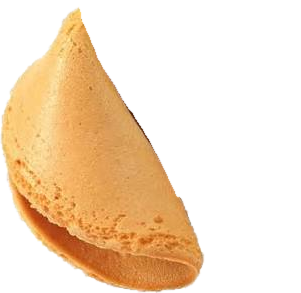
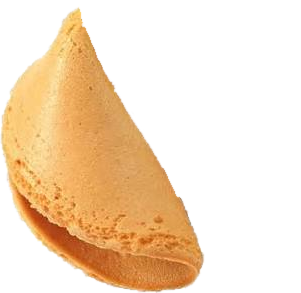
Trim the last shadow spot off the front half's broken edge
Claude-Session: https://claude.ai/code/session_01WWM1mMtMaPQoxHxgteEhMG

diff --git a/img/make-halves.py b/img/make-halves.py
@@ -39,4 +39,17 @@ for name, m in (('front', front), ('back', back)):
         rim = ImageChops.multiply(rim.filter(ImageFilter.GaussianBlur(1)), piece.getchannel('A'))
         light = Image.new('RGBA', (W, H), (246, 214, 160, 255)); light.putalpha(rim)
         piece = Image.alpha_composite(piece, light)
+    if name == 'front':
+        # trim any shell shadow left along the front half's broken edge
+        px = piece.load()
+        ex = dict((int(y), x) for x, y in dense(front_edge, 1))
+        cut = Image.new('L', (W, H), 255); cp = cut.load()
+        for y in range(H):
+            e = ex.get(y)
+            if e is None: continue
+            for x in range(max(0, int(e) - 9), min(W, int(e) + 2)):
+                r, g, b, al = px[x, y]
+                if al and (r + g + b) / 3 < 125: cp[x, y] = 0
+        cut = cut.filter(ImageFilter.MinFilter(3)).filter(ImageFilter.GaussianBlur(.7))
+        piece.putalpha(ImageChops.multiply(piece.getchannel('A'), cut))
     piece.save(f'cookie-{name}.png', optimize=True)
